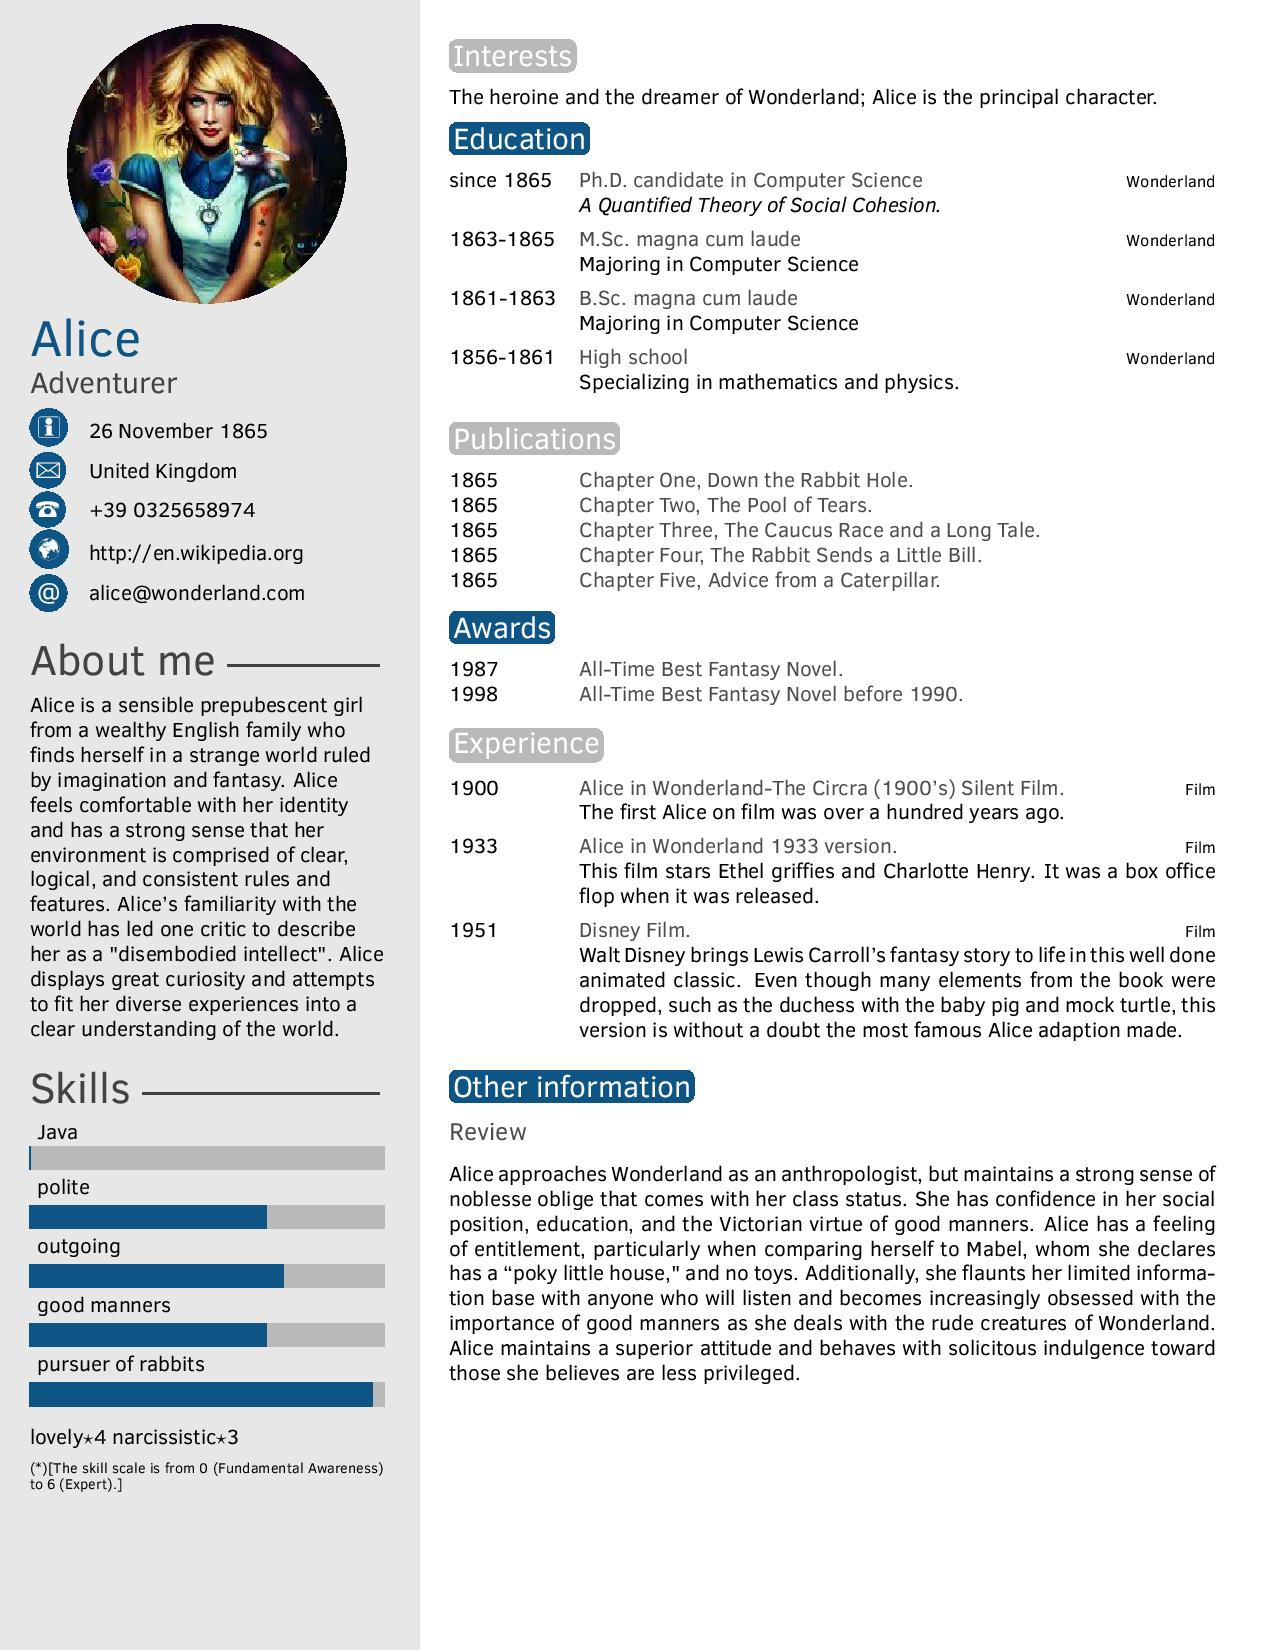
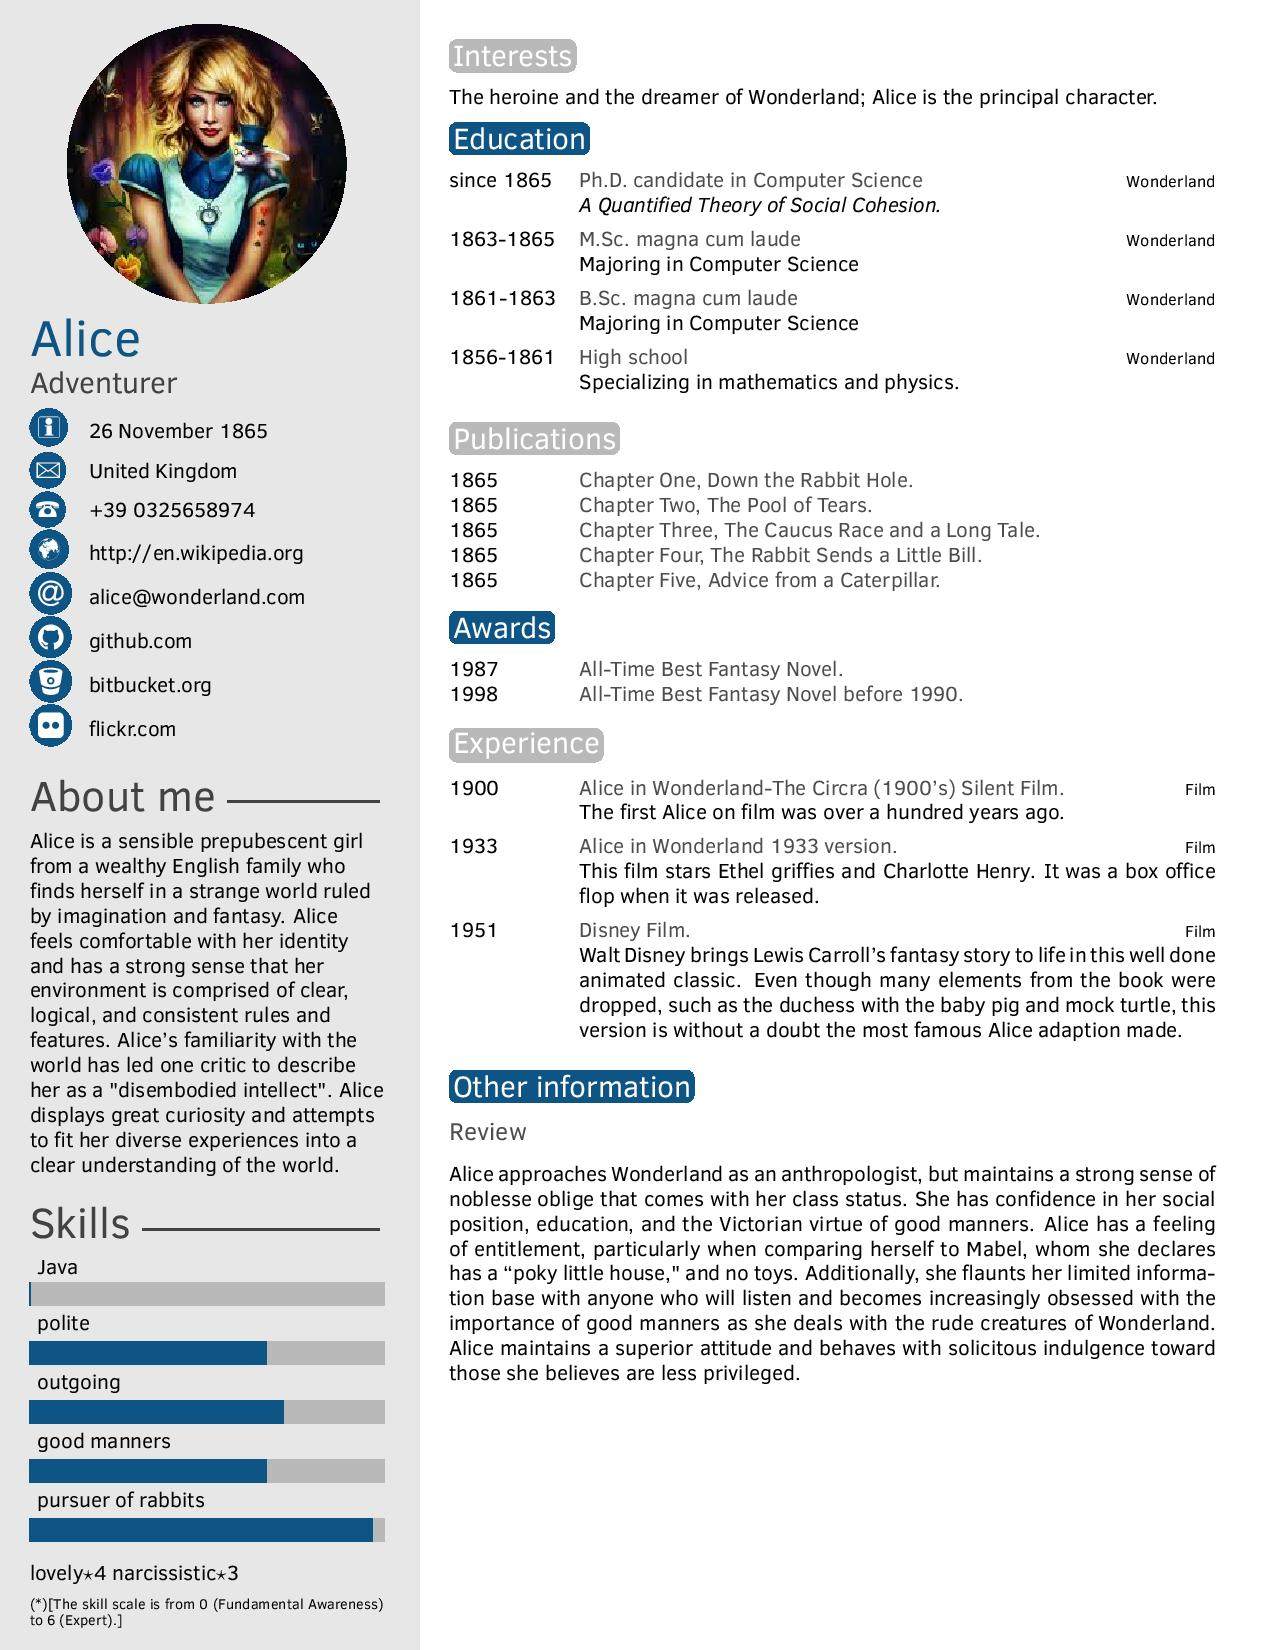
Add commands for popular sites profiles
Add commands for github, bitbucket and flickr profiles.

Changed region(s): [[0.0, 0.34, 0.3059, 0.9891]]

diff --git a/Twenty-Seconds_cv.tex b/Twenty-Seconds_cv.tex
@@ -37,6 +37,9 @@
 \cvnumberphone{+39 0325658974} % Phone number
 \cvsite{http://en.wikipedia.org} % Personal website
 \cvmail{alice@wonderland.com} % Email address
+\cvgithub{github.com}
+\cvbitbucket{bitbucket.org}
+\cvflickr{flickr.com}
 
 %----------------------------------------------------------------------------------------
 

diff --git a/README.md b/README.md
@@ -103,6 +103,15 @@ These are the command to set up the profile information.
 * Set up your personal home page.
 	
 		\cvsite{home page address}
+* Set up your github profile page
+	
+		\cvgithub{github profile address}
+* Set up your bitbucket profile page
+	
+		\cvbitbucket{bitbucket profile address}
+* Set up your flickr profile page
+	
+		\cvflickr{flickr profile address}
 * Set up a brief description of you.
 	
 		\about{brief description}
